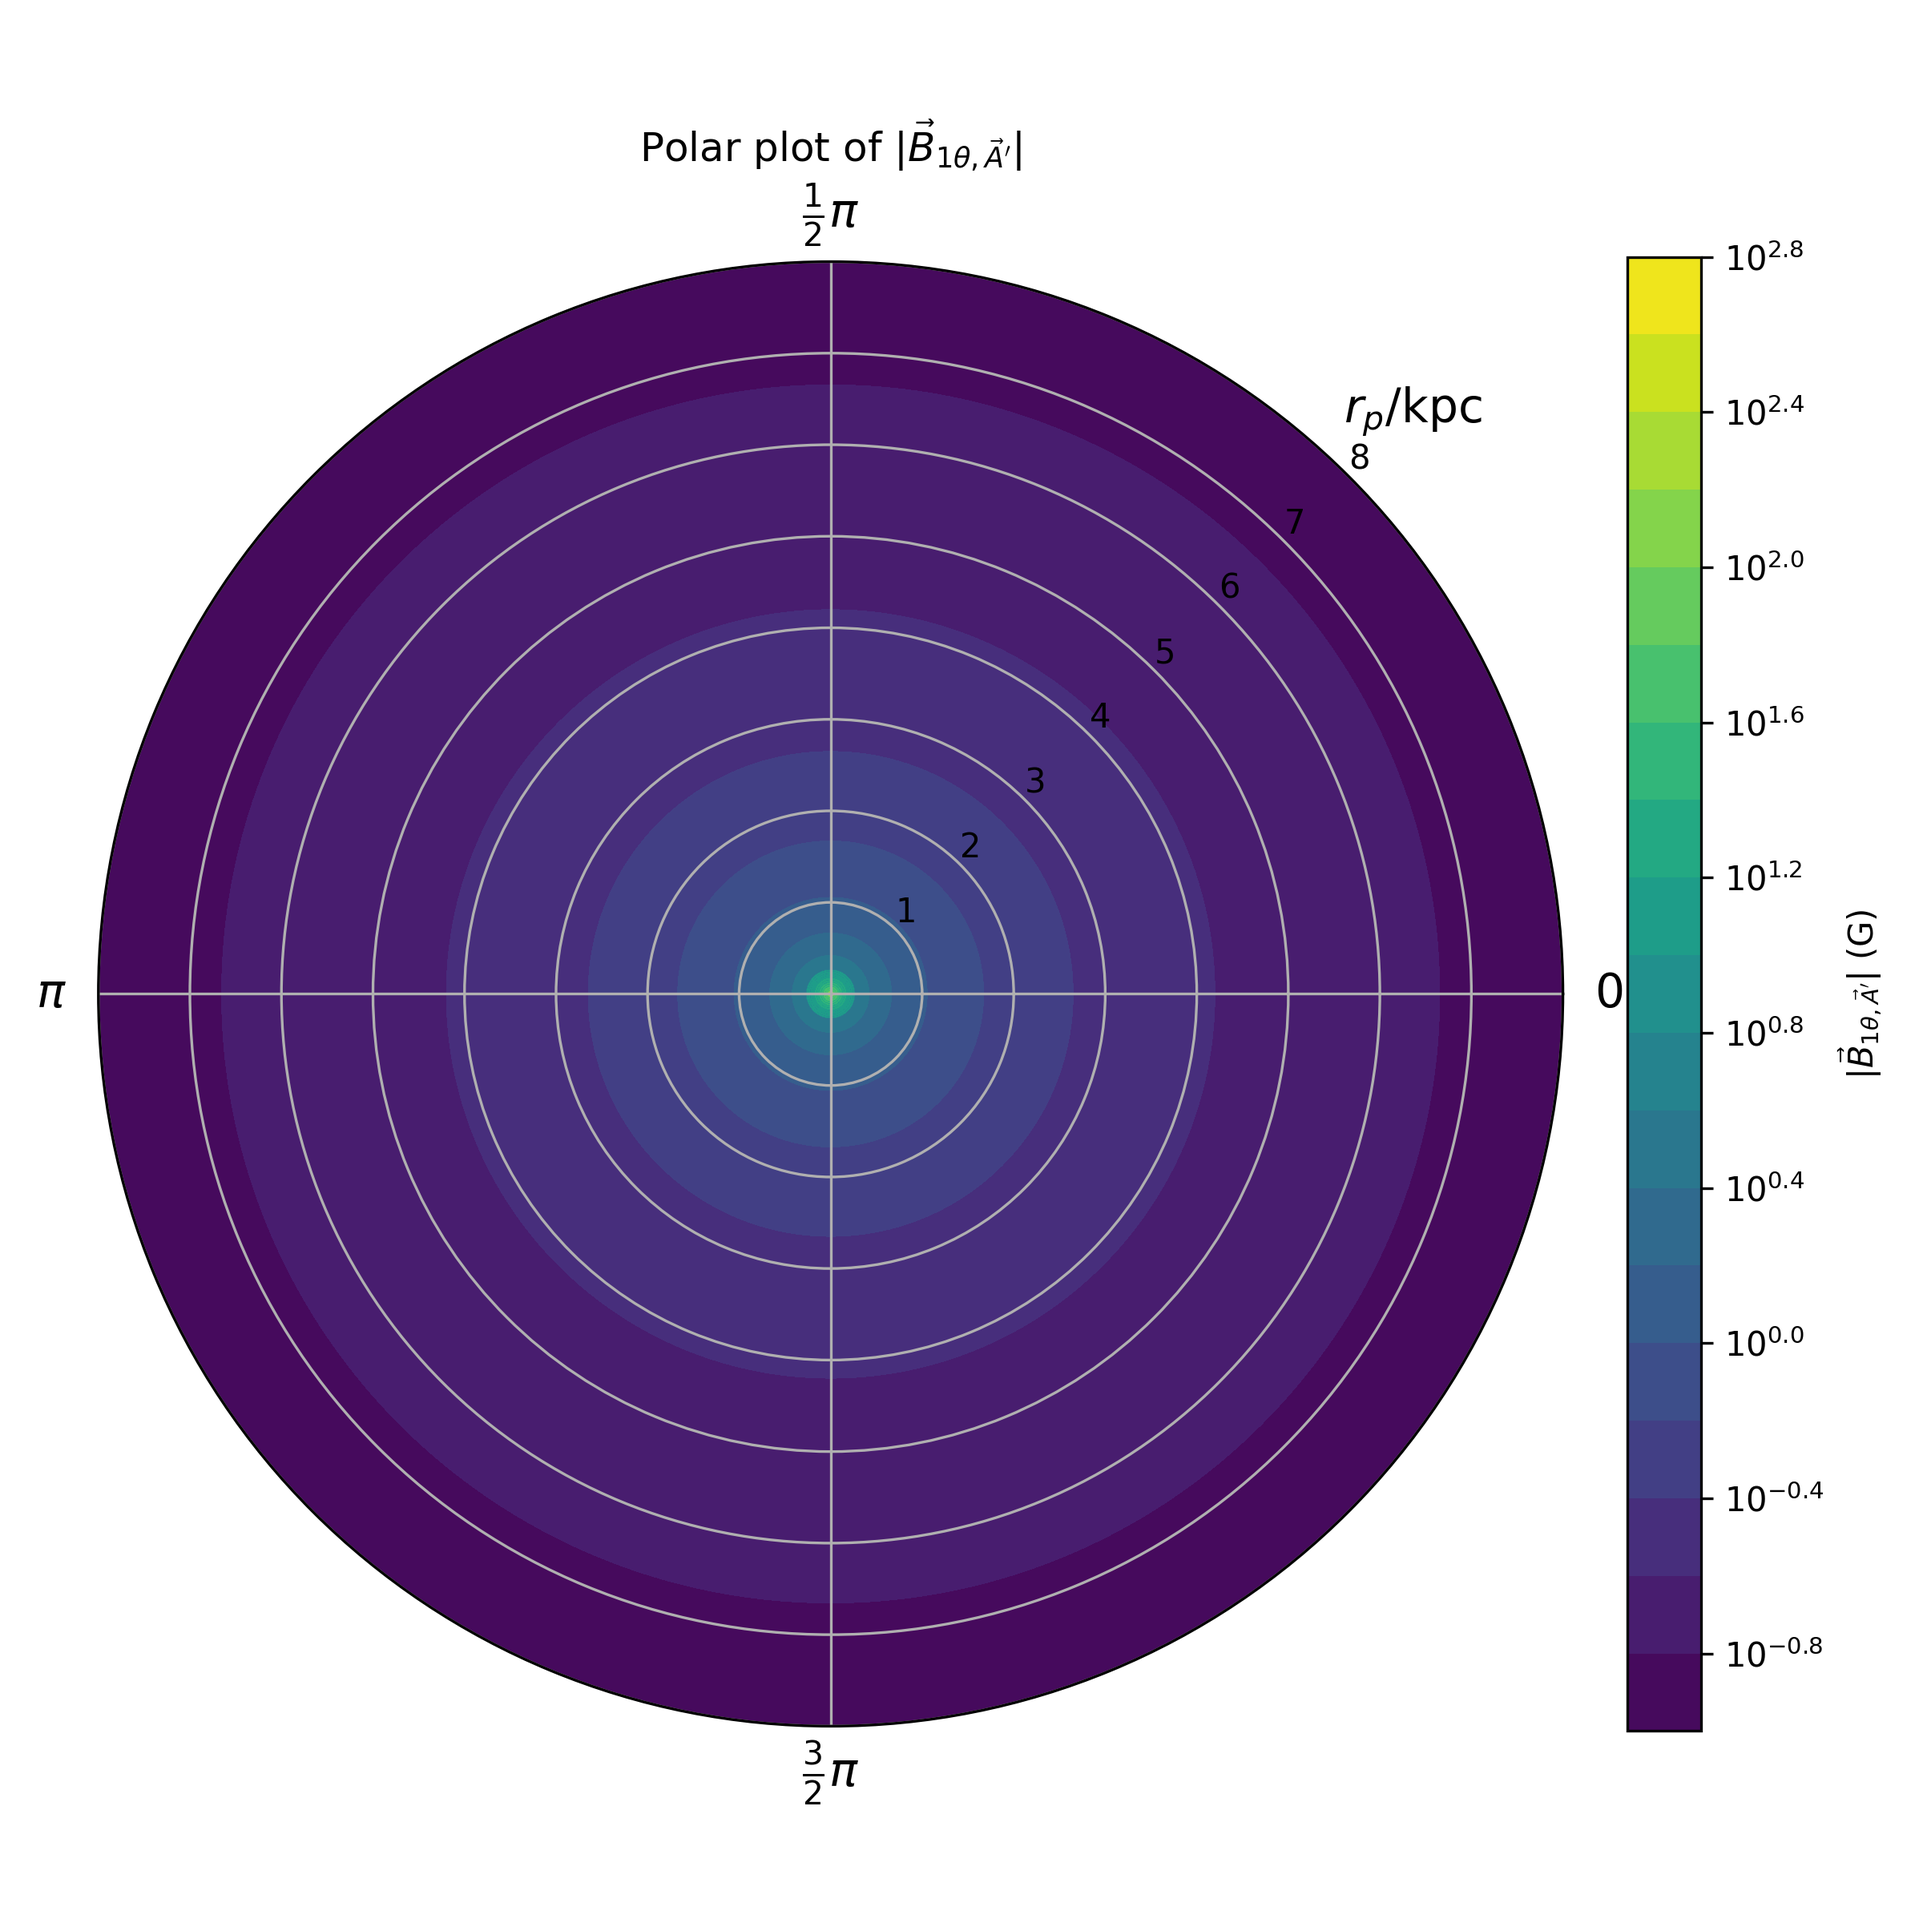
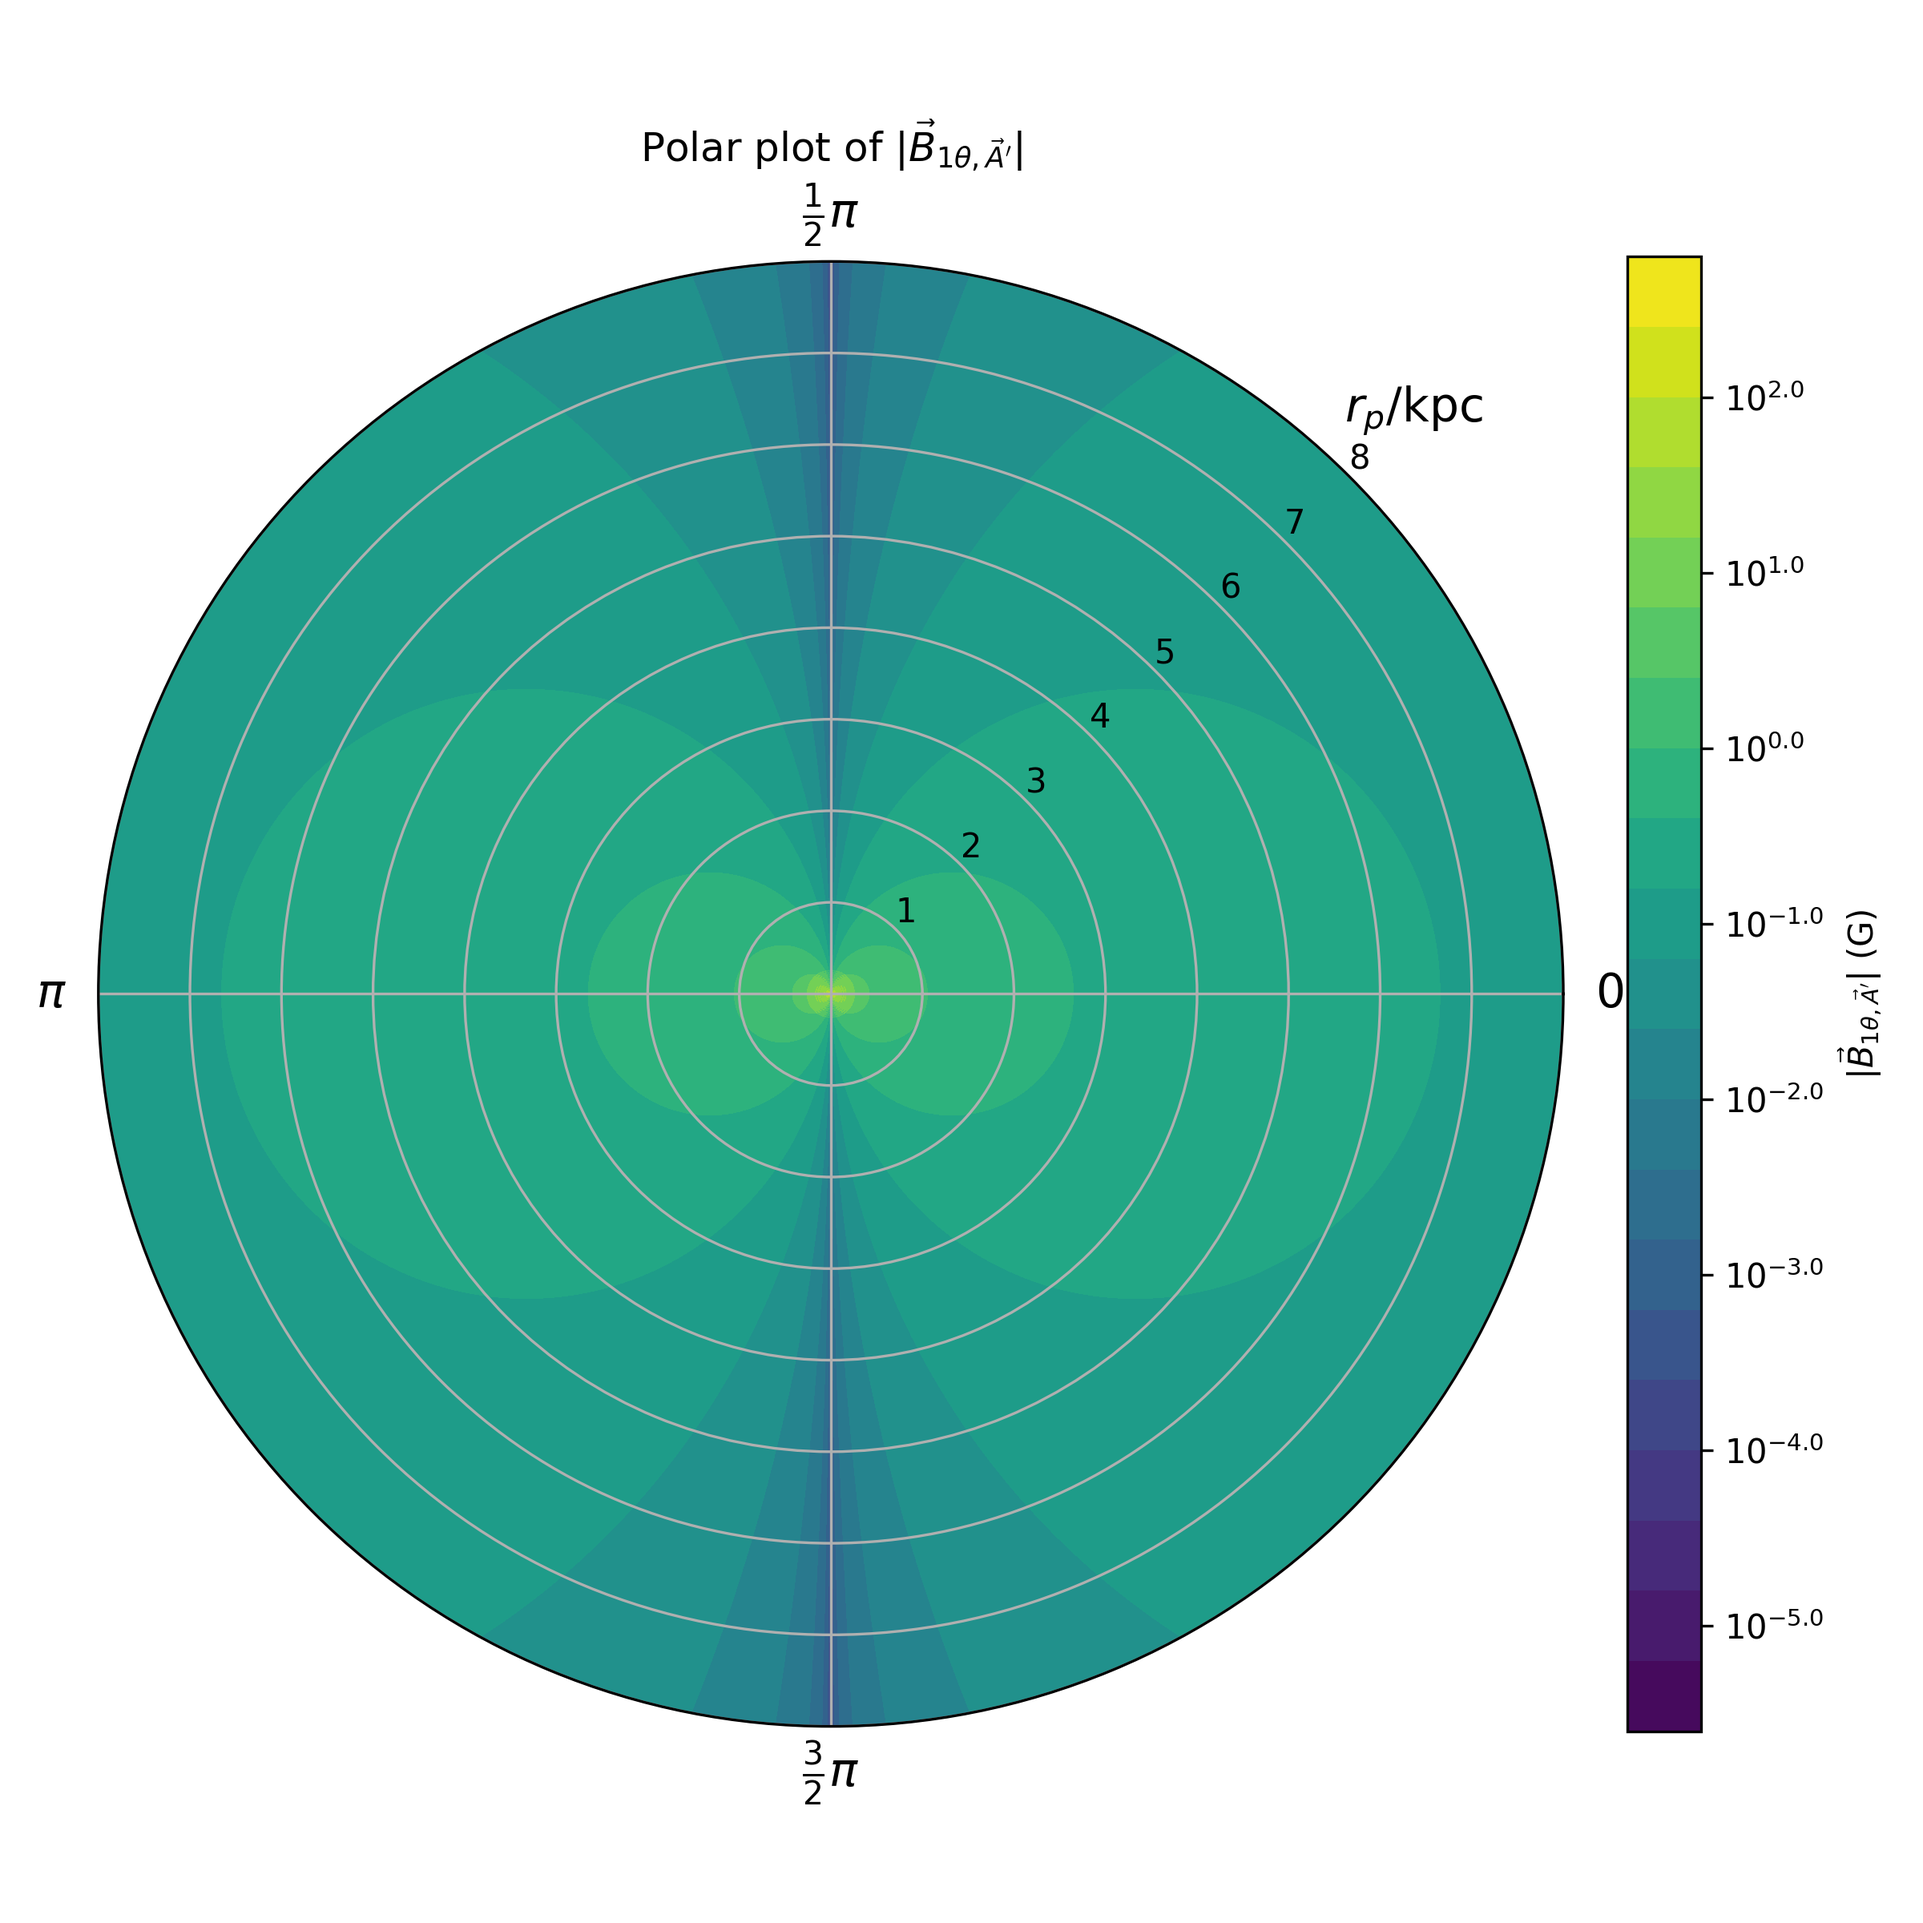
In progress

diff --git a/zeeman.py b/zeeman.py
@@ -104,14 +104,14 @@ def gen_params(potential_type):
 
     return f, m_a, m_D
 
-# Calculate the energy density at the center of the soliton
+# Calculate the energy density at the centre of the soliton
 def calculate_rho0(m):
     """
     Args:
         m (float): Particle mass.
 
     Returns:
-        float: Energy density at the center of the soliton.
+        float: Energy density at the centre of the soliton.
     """
 
     rho0 = 1.9 * (m / 1e-23)**(-2) * (r_c_pc / 1e3)**(-4) * M_s
@@ -219,32 +219,32 @@ def calculate_B1(potential_type, particle_type, t, m, f, epsilon, r_p, theta_p, 
         particle_type (str): Type of particle ("axion" or "dark photon").
         t (float): Time.
         m (float): Particle mass.
-        f (float): Energy scale of axion.
-        epsilon (float): Photon-dark photon coupling strength.
-        r_p (float): Distance of measurement point from Galactic Centre.
-        theta_p (float): theta displacement of the measurement point.
-        phi_p (float): phi displacement of the measurement point.
+        f (float): Energy scale of the axion.
+        epsilon (float): Coupling strength between photon and dark photon.
+        r_p (float): Distance from the Galactic Centre at the measurement point.
+        theta_p (float): Polar angle displacement of the measurement point.
+        phi_p (float): Azimuthal angle displacement of the measurement point.
         B_bar (float): Magnitude of the background magnetic field.
 
     Returns:
-        float: Magnitude of the magnetic field.
+        numpy.ndarray: Magnitude of the magnetic field and its components (if applicable).
     """
 
-    # sech potential
+    # Handle the "sech" potential case
     if potential_type == "sech":
         g_ac = calculate_gac(potential_type, f) # Calculate the axion-photon coupling strength
         phi0 = 3 * f # Calculate the axion field strength
         omega = 0.8 * m # Oscillation frequency
-        R = 2 / m # Radius of axion star
+        R = 2 / m # Calculate the radius of the axion star
 
-        # Calculate B1
+        # Calculate B1 for the sech potential
         B1 = B_bar / r_p * np.cos(- omega * t) * phi0 * g_ac * omega * 1 / 4 * np.pi**2 * R**2 * np.tanh(np.pi * omega * R / 2) / np.cosh(np.pi * omega * R / 2)
-    
+
         return np.array([B1])
 
-    # flat potential
+    # Handle the "flat" potential case
     elif potential_type == "flat":
-        # Common parameters for axion and dark photon
+        # Parameters common to both axion and dark photon
         cutoff_factor = np.sqrt((2**(1 / 4) - 1) / 0.091)
         r_cutoff = cutoff_factor * r_c
         
@@ -260,26 +260,30 @@ def calculate_B1(potential_type, particle_type, t, m, f, epsilon, r_p, theta_p, 
             g_ac = calculate_gac(potential_type, f) # Calculate the axion-photon coupling strength
             omega = m
             B_bar_x, B_bar_y, B_bar_z = 0, B_bar, 0 # Decompose B_bar into Cartesian components
-            coeff = - j * omega * g_ac * phi0 # Coefficient for axion
+            coeff = -j * omega * g_ac * phi0 # Coefficient for axion
 
         elif particle_type == "dark photon":
             omega = m - mu
-            B_bar_x, B_bar_y, B_bar_z = 1 / np.sqrt(2), j / np.sqrt(2), 0 # Pseudo-magnetic field representing the circular polarisation vector
+            B_bar_x, B_bar_y, B_bar_z = 1 / np.sqrt(2), j / np.sqrt(2), 0 # Pseudo-magnetic field for circular polarisation
             coeff = epsilon * m**2 * A0 # Coefficient for dark photon
         
         # Calculate the integral based on the cutoff radius
         I = calculate_I(r_p, r_cutoff, omega)
 
-        # Compute magnitudes of B1 components
+        # Compute the magnitudes of the B1 components
         B1_x_complex = coeff * np.exp(- j * omega * t) * I * (np.cos(theta_p) * B_bar_y - np.sin(theta_p) * np.sin(phi_p) * B_bar_z)
         B1_y_complex = coeff * np.exp(- j * omega * t) * I * (- np.cos(theta_p) * B_bar_x + np.sin(theta_p) * np.cos(phi_p) * B_bar_z)
         B1_z_complex = coeff * np.exp(- j * omega * t) * I * np.sin(theta_p) * (np.sin(phi_p) * B_bar_x - np.cos(phi_p) * B_bar_y)
+
+        # Extract the real parts of the components
         B1_x = np.real(B1_x_complex)
         B1_y = np.real(B1_y_complex)
         B1_z = np.real(B1_z_complex)
+
+        # Calculate the magnitude of B1
         B1 = np.sqrt(B1_x**2 + B1_y**2 + B1_z**2)
 
-        return np.array([B1, B1_x_complex, B1_y_complex, B1_z_complex], dtype=complex)
+        return np.array([B1, B1_x, B1_y, B1_z])
 
 # Calculate the Landé g-factor
 def calculate_g_j(g_e, l, s, j):
@@ -731,7 +735,7 @@ def main():
     B_bar = 1e-10
     print(f"The magnitude of background magnetic field is {B_bar * T_to_eV2:.2e}eV^2.")
 
-    # Set parameters based on potential type
+    # Set parameters based on the potential type
     f, m_a, m_D = gen_params(potential_type)
 
     # Coupling strength
@@ -769,12 +773,12 @@ def main():
     phi_ps = np.linspace(0, 2 * np.pi, 2000)
     r_ps, phi_ps = np.meshgrid(r_ps, phi_ps)
     B1polar_d_mag, B1polar_d_x, B1polar_d_y, B1polar_d_z = calculate_B1("flat", "dark photon", 0, m_D, f, epsilon, r_ps, np.pi / 2, phi_ps, B_bar)
-    B1polar_d_mag = np.real(B1polar_d_mag)
-    B1polar_d_theta = np.abs(- B1polar_d_z)
+    B1polar_d_mag = B1polar_d_mag
+    B1polar_d_theta = - B1polar_d_z
  
-    # Plot B1 versus distance of measurement point from Galactic Centre (r_p) and phi_ps
+    # Plot B1 versus distance of measurement point from Galactic Centre (r_p) and azimuthal displacement (phi_p)
     plot2D_data(phi_ps, r_ps / (1000 * pc_to_m * m_to_eVminus1), np.log10(B1polar_d_mag / 1e-4), r"$\phi$ (rad)", r"$r_p/\mathrm{kpc}$", r"$|\vec{B}_{1, \vec{A}'}|$ (G)", r"Polar plot of $|\vec{B}_{1, \vec{A}'}|$", "B1polardarkphoton.png", plotstyle="contourf-polar", levels=20, zlog=True, logdp=1, save=True)
-    plot2D_data(phi_ps, r_ps / (1000 * pc_to_m * m_to_eVminus1), np.log10(B1polar_d_theta / 1e-4), r"$\phi$ (rad)", r"$r_p/\mathrm{kpc}$", r"$|\vec{B}_{1\theta, \vec{A}'}|$ (G)", r"Polar plot of $|\vec{B}_{1\theta, \vec{A}'}|$", "B1polardarkphotontheta.png", plotstyle="contourf-polar", levels=20, zlog=True, logdp=1, save=True)
+    plot2D_data(phi_ps, r_ps / (1000 * pc_to_m * m_to_eVminus1), np.log10(np.abs(B1polar_d_theta) / 1e-4), r"$\phi$ (rad)", r"$r_p/\mathrm{kpc}$", r"$|\vec{B}_{1\theta, \vec{A}'}|$ (G)", r"Polar plot of $|\vec{B}_{1\theta, \vec{A}'}|$", "B1polardarkphotontheta.png", plotstyle="contourf-polar", levels=20, zlog=True, logdp=1, save=True)
 
     # Calculate the period of oscillation
     period = 2 * np.pi / omega / s_to_eVminus1
@@ -784,7 +788,7 @@ def main():
     ts = np.linspace(0, 4 * period, 1000)
 
     # Calculate B1 values
-    B1s = np.array([np.real(calculate_B1(potential_type, particle_type, t * s_to_eVminus1, m, f, epsilon, r_p, 0, 0, B_bar)[0]) for t in ts])
+    B1s = np.array([calculate_B1(potential_type, particle_type, t * s_to_eVminus1, m, f, epsilon, r_p, 0, 0, B_bar)[0] for t in ts])
 
     # Calculate the shift in energy for each B1
     delta_Es = np.array([calculate_delta_E(B1) for B1 in B1s])
@@ -816,21 +820,21 @@ def main():
         r_ps = np.linspace(1 * r_c, 8000 * pc_to_m * m_to_eVminus1, 10000)
         r_ps_res = np.linspace(1 * r_c, 1.5 * r_c, 10000)
         f, m_a, m_D = gen_params("flat")
-        B1r_ps_a = np.array([np.real(calculate_B1("flat", "axion", 0, m_a, f, epsilon, r_p, 0, 0, B_bar)[0]) for r_p in r_ps])
-        B1r_ps_d = np.array([np.real(calculate_B1("flat", "dark photon", 0, m_D, f, epsilon, r_p, 0, 0, B_bar)[0]) for r_p in r_ps])
-        B1r_ps_a_res = np.array([np.real(calculate_B1("flat", "axion", 0, m_a, f, epsilon, r_p, 0, 0, B_bar)[0]) for r_p in r_ps_res])
-        B1r_ps_d_res = np.array([np.real(calculate_B1("flat", "dark photon", 0, m_D, f, epsilon, r_p, 0, 0, B_bar)[0]) for r_p in r_ps_res])
+        B1r_ps_a = np.array([calculate_B1("flat", "axion", 0, m_a, f, epsilon, r_p, 0, 0, B_bar)[0] for r_p in r_ps])
+        B1r_ps_d = np.array([calculate_B1("flat", "dark photon", 0, m_D, f, epsilon, r_p, 0, 0, B_bar)[0] for r_p in r_ps])
+        B1r_ps_a_res = np.array([calculate_B1("flat", "axion", 0, m_a, f, epsilon, r_p, 0, 0, B_bar)[0] for r_p in r_ps_res])
+        B1r_ps_d_res = np.array([calculate_B1("flat", "dark photon", 0, m_D, f, epsilon, r_p, 0, 0, B_bar)[0] for r_p in r_ps_res])
 
         # Plot B1 versus r_p for axion
         plot_data(r_ps / (1000 * pc_to_m * m_to_eVminus1), B1r_ps_a / 1e-4, "", r"$r_p/\mathrm{kpc}$", r"$|\vec{B}_{1, a}|$ (G)", r"Radial profile of $|\vec{B}_{1, a}|$", f"B1vsrpflataxionm{m_a}.png", xlog=True, save=True)
         
-        # Restrict the radial range for plotting
+        # Restrict the r_p range for plotting
         plot_data(r_ps_res / (1000 * pc_to_m * m_to_eVminus1), B1r_ps_a_res / 1e-4, "", r"$r_p/\mathrm{kpc}$", r"$|\vec{B}_{1, a}|$ (G)", r"Radial profile of $|\vec{B}_{1, a}|$", f"B1vsrpflataxionm{m_a}res.png", save=True)
         
         # Plot B1 versus r_p for dark photon
         plot_data(r_ps / (1000 * pc_to_m * m_to_eVminus1), B1r_ps_d / 1e-4, "", r"$r_p/\mathrm{kpc}$", r"$|\vec{B}_{1, \vec{A}'}|$ (G)", r"Radial profile of $|\vec{B}_{1, \vec{A}'}|$", f"B1vsrpflatdarkphotonm{m_D}.png", xlog=True, save=True)
         
-        # Restrict the radial range for plotting
+        # Restrict the r_p range for plotting
         plot_data(r_ps_res / (1000 * pc_to_m * m_to_eVminus1), B1r_ps_d_res / 1e-4, "", r"$r_p/\mathrm{kpc}$", r"$|\vec{B}_{1, \vec{A}'}|$ (G)", r"Radial profile of $|\vec{B}_{1, \vec{A}'}|$", f"B1vsrpflatdarkphotonm{m_D}res.png", save=True)
     
     # Plot the soliton profile for flat potential and axion
